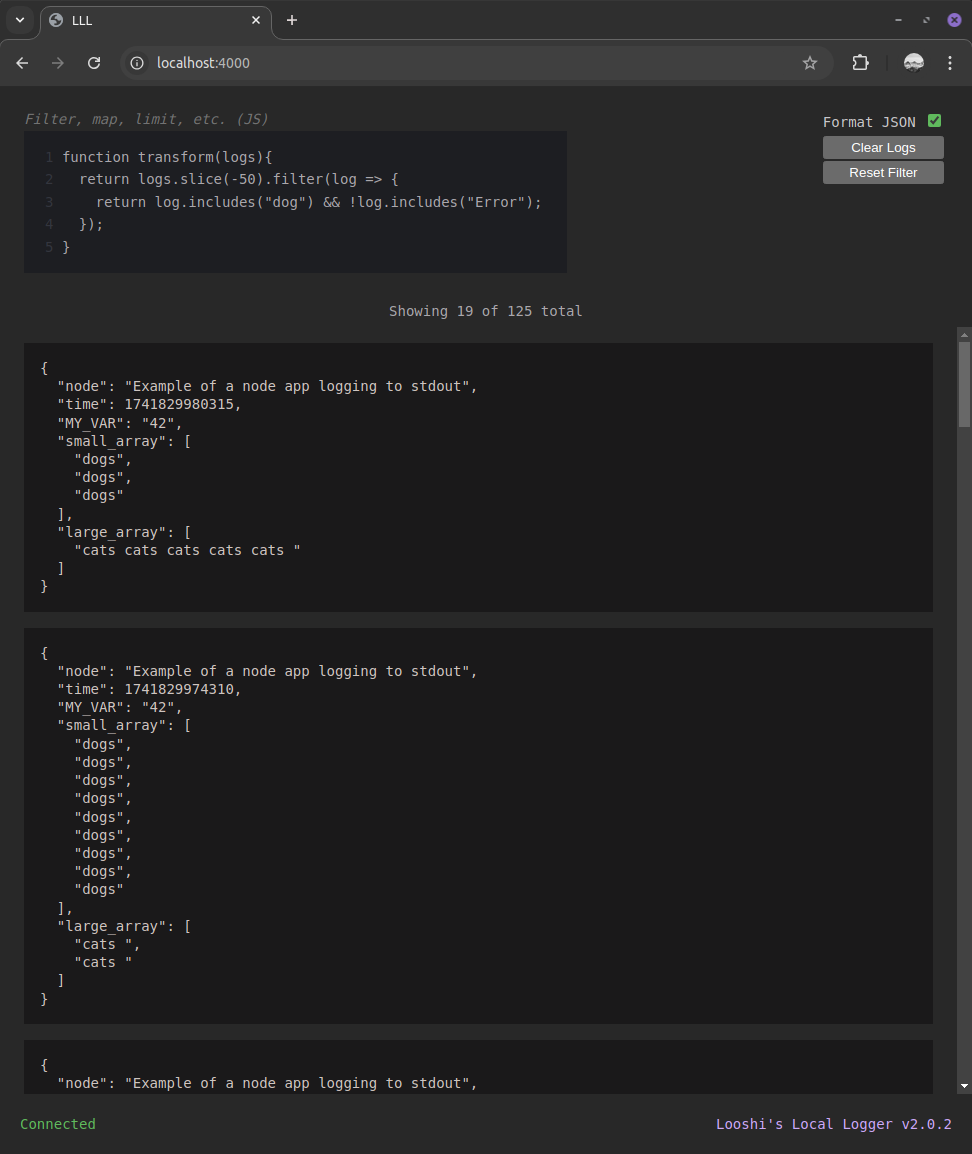
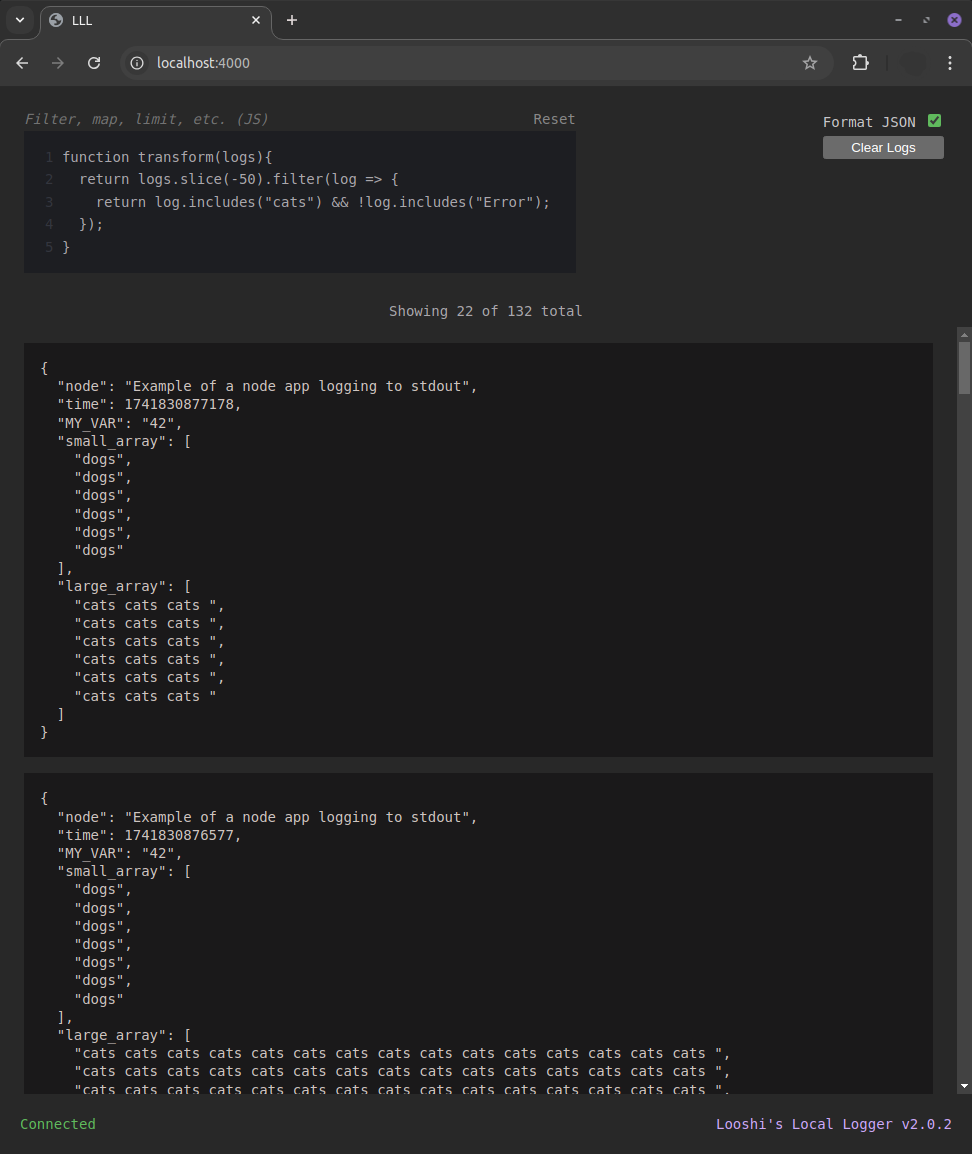
Mv reset button

diff --git a/src/client.html b/src/client.html
@@ -157,6 +157,17 @@
       padding-right: 0;
       padding-left: 0;
       color: rgb(115, 115, 115);
+      display: flex;
+      justify-content: space-between;
+    }
+    #transform-instructions a {
+      color: #898888;
+      font-style: normal;
+    }
+    #transform-instructions a:hover {
+      text-decoration: underline;
+      cursor: pointer;
+      color: #cccbcb;
     }
     #transform-fn-status {
       display: inline-block;
@@ -172,6 +183,7 @@
       <div>
         <label id="transform-instructions" for="code_editor">
           Filter, map, limit, etc. (JS)
+          <a id="reset-filter-button">Reset</a>
         </label>
         <div class="filter-function-area">
           <ol
@@ -190,7 +202,6 @@
           <input type="checkbox" checked id="parse-json-checkbox" />
         </label>
         <button id="clear-button">Clear Logs</button>
-        <button id="reset-filter-button">Reset Filter</button>
       </div>
     </header>
     <div id="filter-count">No logs yet</div>
